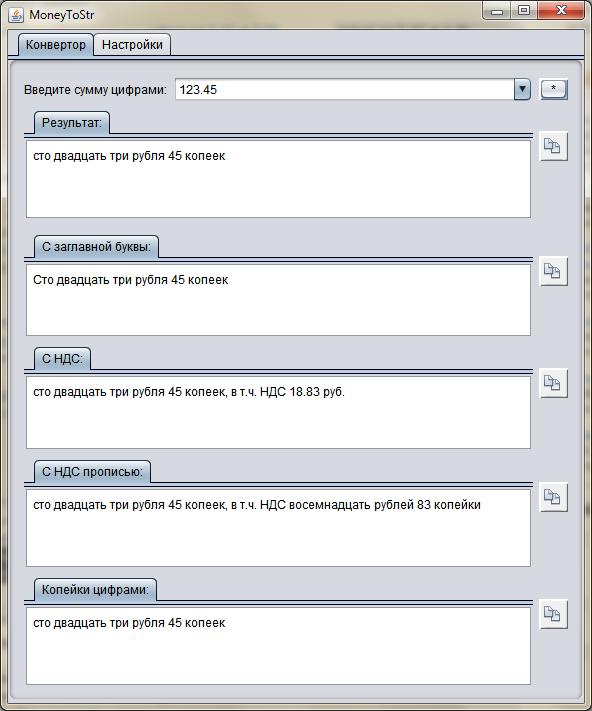
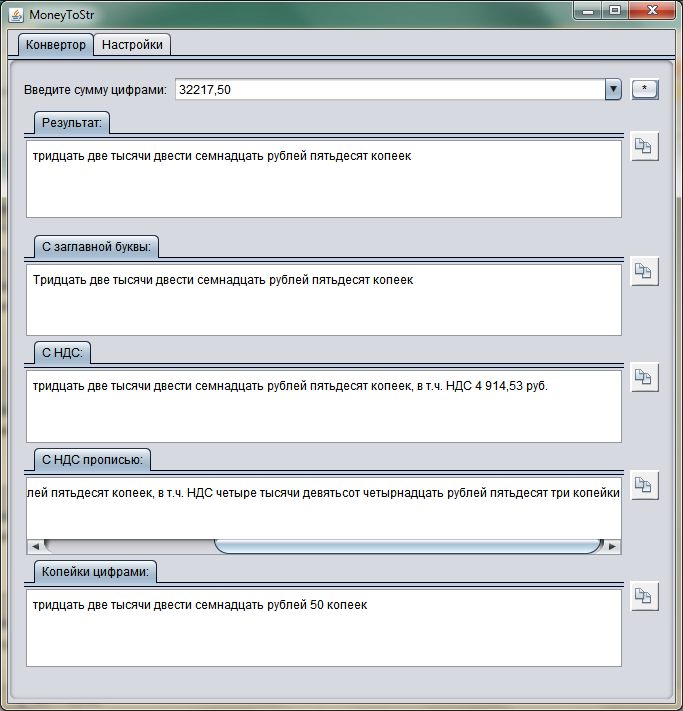
Improved README.md

Changed region(s): [[0.0, 0.0, 1.0, 1.0], [0.8818, 0.9902, 0.9426, 1.0]]

diff --git a/README.md b/README.md
@@ -3,4 +3,6 @@ moneytostr [![Build Status](https://secure.travis-ci.org/javadev/moneytostr-russ
 
 The tool to convert Currency to string in Russian/Ukrainian/English languages
 
-[![Screen short](https://raw.github.com/javadev/moneytostr-russian/master/moneytostr.png)](http://javadev.github.com/moneytostr-russian/)
+[![Screen short](https://raw.github.com/javadev/moneytostr-russian/master/moneytostr.png)](http://javadev.github.io/moneytostr-russian/)
+
+[![Screen short](https://raw.github.com/javadev/moneytostr-russian/master/moneytostr2.png)](http://javadev.github.io/moneytostr-russian/)
